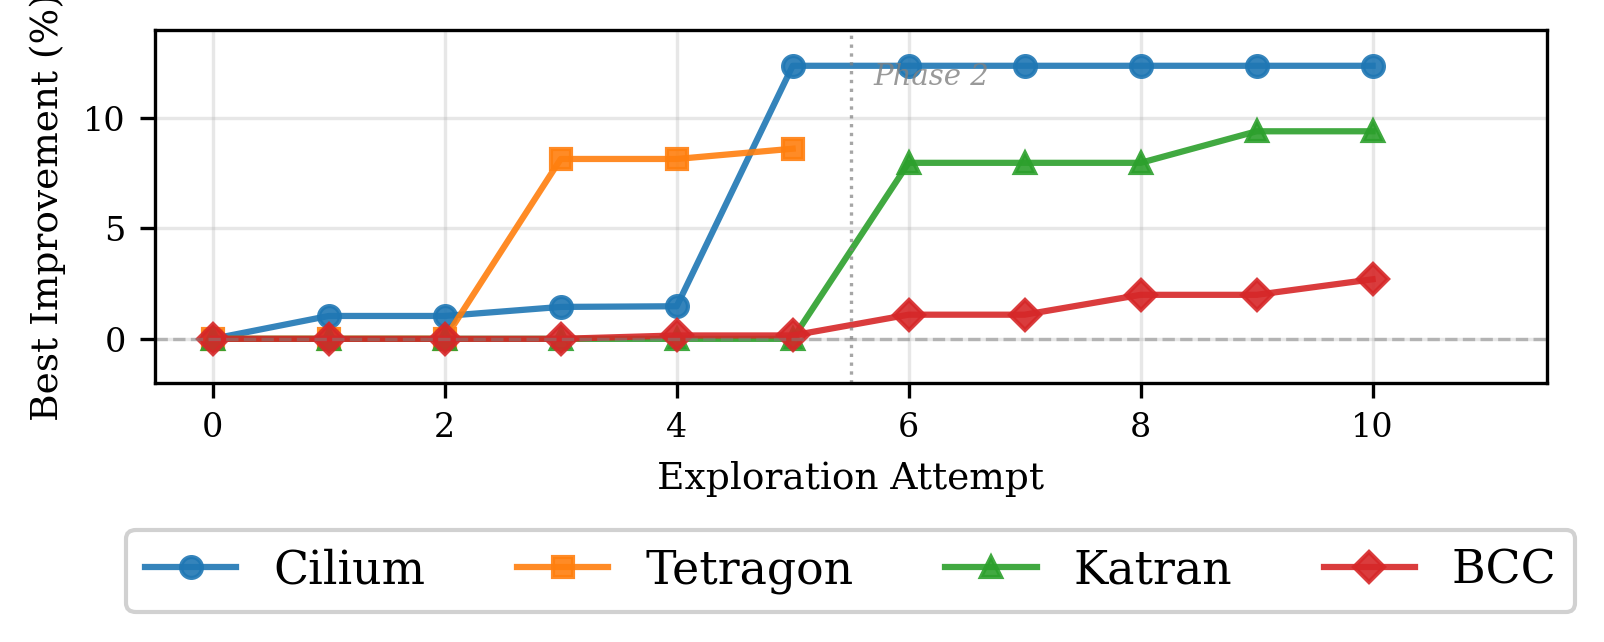
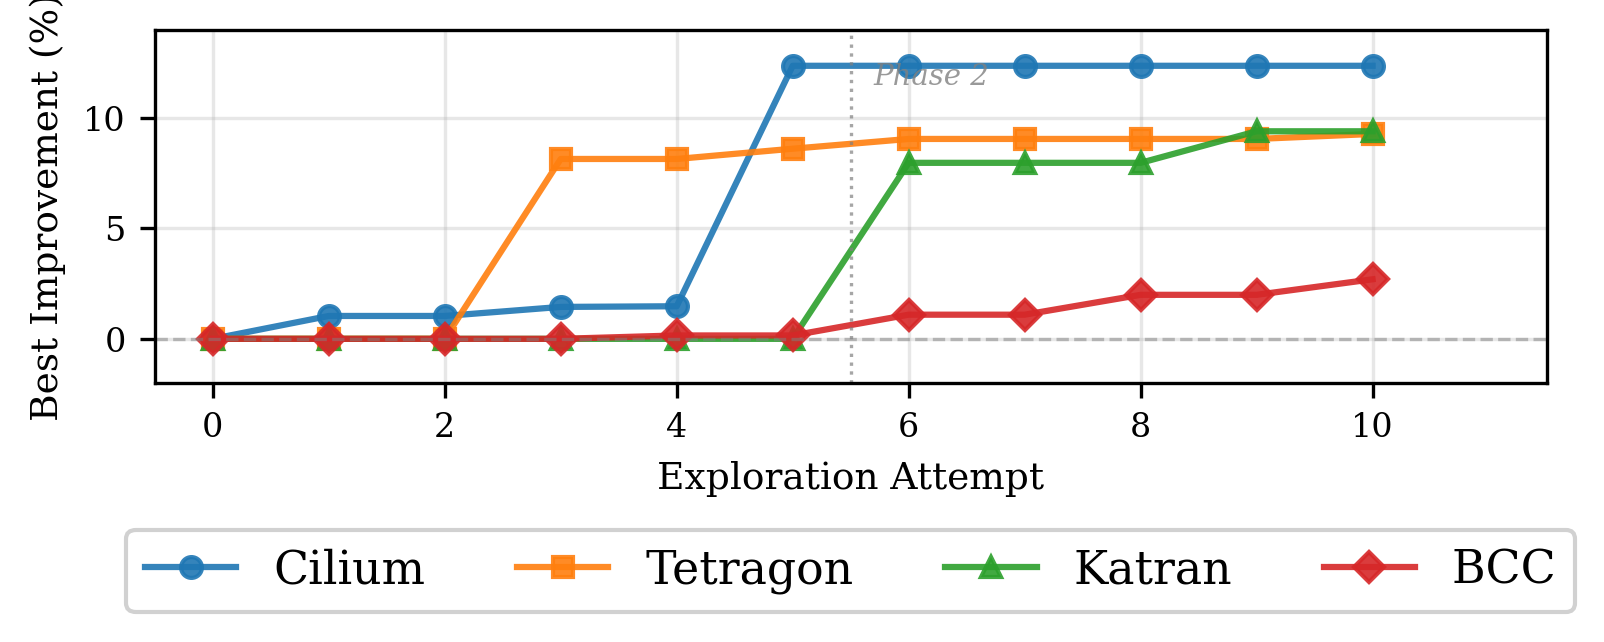
Refine caption for convergence figure by removing redundant phrasing in main.tex

Changed region(s): [[0.4988, 0.1869, 0.8728, 0.2492]]

diff --git a/main.tex b/main.tex
@@ -237,7 +237,7 @@ Figure~\ref{fig:timeline} shows raw session results over time, and Figure~\ref{f
 \begin{figure}[t]
 \centering
 \includegraphics[width=\linewidth]{convergence.pdf}
-\caption{Source-level convergence (best-so-far per attempt). Cilium +12\% at attempt 5; Katran breaks through in Phase 2.}
+\caption{Source-level convergence (best-so-far per attempt).}
 % 图：源码层收敛（每次尝试的最佳结果）。Cilium 第 5 次 +12%；Katran 在 Phase 2 突破。
 \Description{Convergence curves per app.}
 \label{fig:convergence}